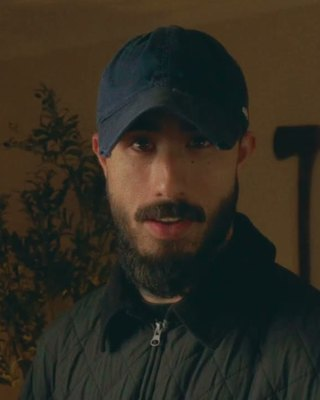
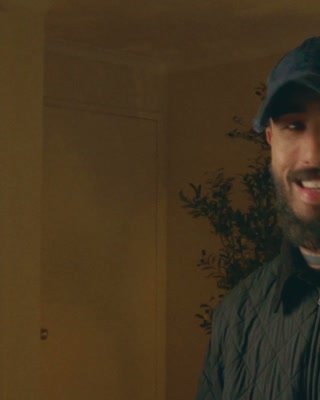
Henry library check-over: his third round (smiling Bonus 2 frame, bigger titles, 1-of-6 navigation, no time on the Starter Pack tile, phone page ends at Start + (c), ?enter)

diff --git a/access/henry/index.html b/access/henry/index.html
@@ -1,6 +1,6 @@
 <!doctype html>
 <html lang="en" class="v5">
-<head>
+<head><script>if(/[?&]enter\b/.test(location.search)){try{localStorage.removeItem("bonus-entered");localStorage.removeItem("bonus-done")}catch(e){}}</script>
 <meta charset="utf-8">
 <meta name="viewport" content="width=device-width,initial-scale=1,maximum-scale=1,user-scalable=no,viewport-fit=cover">
 <meta name="robots" content="noindex,nofollow">
@@ -1056,6 +1056,25 @@ html.pre-open,html.pre-open body{overflow:hidden;}
 .side .foot{text-wrap:balance;}
 /* the photo on the What's next page: corners like the rest of the page, not 24px */
 .lphoto,.lphoto img{border-radius:8px!important;}
+
+/* ── 11 Nov ~21:20, his third round ── */
+/* bonus titles a touch bigger and bolder */
+article.mod > h2{font-size:32px!important;font-weight:600!important;letter-spacing:-0.035em!important;line-height:1.1!important;}
+@media (min-width:761px){article.mod > h2{font-size:40px!important;}}
+/* no running time on the Starter Pack tile (his note: intimidating) */
+.lt.vid[data-id="gjsp"] .ltd{display:none!important;}
+/* top right: navigation, not a label — ‹ 1 of 6 › */
+.bar .steps{display:flex!important;visibility:visible!important;align-items:center;gap:4px;}
+.bar .steps .lab{margin:0 6px;font-size:14px;font-weight:600;color:var(--ink-2);white-space:nowrap;}
+.bar .steps a,.bar .steps span[aria-hidden]{display:grid;place-items:center;min-width:44px;min-height:44px;}
+.bar .steps span[aria-hidden]{opacity:.25;}
+/* phones: the page ends at the Start button; no footer line; a quiet © with the dog mark under it */
+.side .copy{display:none;}
+@media (max-width:760px){
+  .side .foot{display:none!important;}
+  .side .copy{display:flex;align-items:center;gap:8px;margin:32px 0 8px;font-size:13px;color:var(--ink-3);}
+  .side .copy svg{width:18px;height:18px;display:block;}
+}
 </style>
 <style>
 /* entry screen = the sales page hero's layout and effects (values in the docstring of entry_options.py) */
@@ -1119,7 +1138,7 @@ document.addEventListener('dblclick',function(e){e.preventDefault();},{passive:f
     <p class="from">The Hollywood Body Giveaway Bundle Extravaganza for Henry Kemp’s subscribers ONLY.</p><!-- HIS words, 16 Oct naming note, exactly as approved -->
     <div class="prog"><p class="lab">Your progress</p><div class="row"><div class="sqs" id="pb"></div><span class="n" id="pc">0 of 6</span></div></div>
     <ul class="mods" id="mods"></ul>
-    <a class="btn fill wide start" href="#gjsp">Start with Bonus 1</a>
+    <a class="btn fill wide start" href="#gjsp">Start with Bonus 1</a><p class="copy"><svg viewBox="0 0 1024 1024" aria-hidden="true" focusable="false"><rect width="1024" height="1024" rx="184.32"/><path d="M703.10 360.51C705.98 360.58 719.78 364.10 726.54 364.98C733.30 365.85 754.37 367.10 759.46 367.77C764.55 368.43 766.60 369.48 768.94 370.55C771.29 371.63 775.57 375.42 778.99 376.69C782.40 377.96 793.92 379.95 797.40 381.16C800.88 382.36 805.46 385.13 808.00 386.74C810.55 388.34 816.66 392.94 818.60 394.55C820.55 396.15 823.45 398.65 824.18 400.13C824.92 401.60 824.21 405.55 824.74 406.82C825.28 408.10 826.30 409.32 828.65 410.73C830.99 412.13 839.25 416.60 844.27 418.54C849.29 420.48 866.81 425.57 870.50 426.91C874.18 428.25 874.36 428.76 874.96 429.70C875.56 430.64 876.05 432.98 875.52 434.72C874.98 436.46 871.83 442.27 870.50 444.21C869.16 446.15 865.63 449.83 864.36 450.90C863.09 451.97 861.17 452.73 859.89 453.13C858.62 453.54 855.56 454.25 853.76 454.25C851.95 454.25 848.65 454.41 844.83 453.13C841.01 451.86 825.37 444.72 821.95 443.65C818.54 442.58 817.51 443.74 816.37 444.21C815.23 444.68 812.80 446.55 812.47 447.55C812.13 448.56 812.18 451.04 813.58 452.58C814.99 454.12 821.71 458.91 824.18 460.39C826.66 461.86 831.08 463.91 834.23 464.85C837.37 465.79 848.27 467.33 850.41 468.20C852.55 469.07 852.62 470.90 852.08 472.11C851.55 473.31 848.29 477.37 845.94 478.24C843.60 479.11 834.90 479.43 832.55 479.36C830.21 479.29 830.43 479.43 826.42 477.68C822.40 475.94 804.50 466.86 799.08 464.85C793.65 462.84 785.77 461.55 781.22 460.95C776.67 460.34 764.75 459.76 761.13 459.83C757.52 459.90 753.63 460.77 751.09 461.50C748.55 462.24 743.08 464.16 739.93 465.97C736.78 467.78 727.01 474.76 724.87 476.57C722.72 478.38 721.94 479.69 722.08 481.03C722.21 482.37 724.71 484.51 725.98 487.73C727.25 490.94 730.80 504.67 732.68 507.82C734.55 510.96 738.59 512.55 741.60 513.95C744.62 515.36 753.23 518.26 757.79 519.53C762.34 520.80 774.12 523.62 779.55 524.55C784.97 525.49 792.40 527.14 802.98 527.34C813.56 527.55 853.98 524.76 867.71 526.23C881.43 527.70 907.79 538.01 917.36 539.62C926.94 541.23 942.74 539.15 947.49 539.62C952.25 540.09 955.44 542.65 956.98 543.53C958.52 544.40 959.66 545.87 960.33 546.87C961.00 547.88 962.29 550.76 962.56 551.89C962.83 553.03 962.76 555.42 962.56 556.36C962.36 557.30 962.16 558.64 960.89 559.71C959.61 560.78 954.10 564.55 951.96 565.29C949.82 566.02 944.30 565.91 943.03 565.84C941.76 565.78 941.96 564.39 941.36 564.73C940.75 565.06 939.15 567.96 938.01 568.63C936.87 569.30 934.01 570.17 931.87 570.31C929.73 570.44 924.24 571.09 920.15 569.75C916.07 568.41 901.25 560.49 897.84 559.15C894.42 557.81 893.84 558.46 891.70 558.59C889.56 558.72 883.40 560.87 879.98 560.26C876.57 559.66 867.19 554.44 863.24 553.57C859.29 552.70 854.29 552.61 847.06 553.01C839.83 553.41 810.08 556.45 802.98 556.92C795.88 557.39 791.80 557.72 787.92 556.92C784.03 556.11 774.57 551.49 770.62 550.22C766.67 548.95 754.93 545.71 755.00 546.32C755.06 546.92 762.87 549.82 771.18 555.24C779.48 560.67 813.20 584.28 824.18 591.51C835.16 598.74 856.12 611.89 862.68 615.50C869.25 619.12 873.84 620.64 878.86 621.64C883.89 622.65 900.51 623.27 904.53 623.87C908.55 624.48 910.80 625.79 912.34 626.66C913.88 627.53 916.36 629.85 917.36 631.13C918.37 632.40 920.24 635.92 920.71 637.26C921.18 638.60 921.47 641.08 921.27 642.29C921.07 643.49 919.91 646.57 919.04 647.31C918.17 648.04 914.82 647.95 914.02 648.42C913.21 648.89 913.21 650.68 912.34 651.21C911.47 651.75 907.97 652.69 906.76 652.89C905.56 653.09 903.37 653.22 902.30 652.89C901.23 652.55 898.71 650.03 897.84 650.10C896.97 650.16 896.05 652.84 895.05 653.45C894.04 654.05 891.74 655.05 889.47 655.12C887.19 655.19 878.62 654.67 876.07 654.00C873.53 653.33 870.61 651.28 868.26 649.54C865.92 647.80 859.43 641.50 856.55 639.50C853.67 637.49 846.81 633.87 844.27 632.80C841.73 631.73 837.62 630.84 835.34 630.57C833.07 630.30 826.97 630.77 825.30 630.57C823.63 630.37 823.27 630.64 821.39 628.89C819.52 627.15 812.96 618.61 809.68 616.06C806.40 613.52 798.07 609.43 794.05 607.69C790.04 605.95 783.36 603.63 776.20 601.55C769.03 599.48 743.19 593.27 734.35 590.39C725.51 587.52 709.31 579.44 702.55 577.56C695.78 575.69 681.54 575.78 678.00 574.77C674.45 573.77 673.78 571.27 672.97 569.19C672.17 567.12 672.17 560.29 671.30 557.47C670.43 554.66 667.73 548.50 665.72 545.76C663.71 543.01 658.11 537.48 654.56 534.60C651.01 531.72 638.49 523.24 636.15 521.76C633.80 520.29 633.96 521.12 635.03 522.32C636.10 523.53 643.00 529.53 645.08 531.81C647.15 534.08 653.00 538.82 652.33 541.29C651.66 543.77 643.31 549.98 639.50 552.45C635.68 554.93 625.21 560.13 620.52 561.94C615.84 563.75 604.39 566.65 600.44 567.52C596.49 568.39 591.89 569.06 587.60 569.19C583.32 569.33 569.15 569.04 564.73 568.63C560.31 568.23 554.33 566.85 550.78 565.84C547.23 564.84 539.44 562.27 535.16 560.26C530.87 558.26 520.22 552.45 515.07 549.10C509.91 545.76 497.68 535.65 492.19 532.37C486.70 529.09 473.73 523.44 469.32 521.76C464.90 520.09 460.72 519.22 455.37 518.42C450.01 517.61 431.04 515.47 424.68 515.07C418.32 514.67 406.24 514.87 402.36 515.07C398.48 515.27 392.11 517.95 392.32 516.74C392.52 515.54 400.62 507.50 404.03 505.03C407.45 502.55 419.90 496.97 420.77 496.10C421.64 495.23 413.63 496.97 411.29 497.77C408.94 498.58 407.14 497.37 401.24 502.79C395.35 508.22 370.09 535.74 362.19 542.97C354.28 550.20 340.89 559.71 335.40 563.05C329.91 566.40 321.39 569.46 316.43 570.87C311.48 572.27 301.81 572.50 294.11 574.77C286.41 577.05 260.17 587.23 252.27 589.84C244.36 592.45 233.43 594.79 228.27 596.53C223.12 598.27 213.19 602.40 209.30 604.34C205.42 606.29 198.72 610.70 195.91 612.71C193.10 614.72 190.22 616.53 185.87 621.08C181.51 625.64 163.86 646.37 159.64 650.66C155.42 654.94 153.33 655.39 150.72 656.79C148.10 658.20 140.96 661.64 137.88 662.37C134.80 663.11 126.86 663.13 125.05 662.93C123.24 662.73 123.82 661.17 122.82 660.70C121.81 660.23 117.82 659.83 116.68 659.02C115.54 658.22 113.73 655.48 113.33 654.00C112.93 652.53 113.00 648.22 113.33 646.75C113.67 645.28 115.12 642.73 116.12 641.73C117.13 640.72 120.70 639.59 121.70 638.38C122.71 637.17 123.15 632.96 124.49 631.68C125.83 630.41 130.65 628.31 132.86 627.78C135.07 627.24 139.89 628.43 142.90 627.22C145.92 626.02 152.68 622.09 157.97 617.74C163.26 613.38 182.10 596.04 186.98 590.95C191.87 585.86 196.69 577.74 198.70 575.33C200.71 572.92 202.38 571.67 203.72 570.87C205.06 570.06 207.45 568.83 209.86 568.63C212.27 568.43 221.40 569.26 223.81 569.19C226.22 569.12 227.27 569.01 229.95 568.08C232.62 567.14 245.99 562.25 246.13 561.38C246.26 560.51 237.29 561.69 231.06 560.82C224.84 559.95 201.40 554.80 194.24 554.13C187.07 553.46 175.98 554.57 171.36 555.24C166.74 555.91 159.29 558.37 155.74 559.71C152.19 561.05 147.21 562.79 141.79 566.40C136.36 570.02 116.10 586.15 110.54 589.84C104.98 593.52 98.96 595.82 95.48 597.09C91.99 598.36 84.34 600.04 81.53 600.44C78.71 600.84 73.92 600.71 72.04 600.44C70.17 600.17 67.11 599.08 65.90 598.21C64.70 597.34 62.53 594.39 62.00 593.18C61.46 591.98 61.31 589.37 61.44 588.16C61.57 586.96 62.24 584.48 63.11 583.14C63.98 581.80 67.42 578.01 68.69 577.00C69.97 576.00 72.71 575.78 73.72 574.77C74.72 573.77 75.79 569.77 77.06 568.63C78.34 567.50 81.37 565.82 84.32 565.29C87.26 564.75 98.53 564.77 101.61 564.17C104.69 563.57 102.75 565.35 109.98 560.26C117.21 555.18 154.11 526.52 161.87 521.76C169.64 517.01 171.69 520.25 174.71 520.65C177.72 521.05 183.37 524.44 186.98 525.11C190.60 525.78 200.02 526.50 204.84 526.23C209.66 525.96 221.87 524.15 227.16 522.88C232.45 521.61 245.17 517.50 248.92 515.63C252.67 513.75 255.86 511.41 258.40 507.26C260.95 503.11 267.78 485.59 270.12 481.03C272.46 476.48 275.79 471.93 277.93 469.32C280.07 466.70 285.57 461.21 287.98 459.27C290.39 457.33 297.62 453.94 298.02 453.13C298.42 452.33 295.01 452.31 291.32 452.58C287.64 452.84 275.37 454.09 267.33 455.37C259.30 456.64 232.00 461.97 224.37 463.18C216.73 464.38 210.69 465.07 203.72 465.41C196.76 465.74 174.37 466.17 166.34 465.97C158.30 465.77 145.34 464.94 136.77 463.74C128.20 462.53 102.75 458.00 94.92 455.92C87.08 453.85 75.30 448.45 71.48 446.44C67.67 444.43 64.32 440.52 63.11 439.19C61.91 437.85 61.51 436.22 61.44 435.28C61.37 434.34 61.89 432.24 62.56 431.37C63.23 430.50 64.94 428.70 67.02 428.03C69.10 427.36 77.11 426.06 79.85 425.79C82.60 425.53 83.07 425.12 89.90 425.79C96.73 426.46 127.66 430.50 136.77 431.37C145.87 432.24 157.81 432.91 165.78 433.05C173.75 433.18 192.85 433.09 203.16 432.49C213.48 431.89 238.52 428.49 251.71 428.03C264.90 427.56 304.58 428.58 313.08 428.58C321.59 428.58 319.76 429.16 322.57 428.03C325.38 426.89 332.84 420.91 336.52 419.10C340.20 417.29 349.91 414.03 353.26 412.96C356.61 411.89 360.80 410.77 364.42 410.17C368.03 409.57 378.30 408.14 383.39 407.94C388.48 407.74 396.18 407.49 406.82 408.50C417.47 409.50 459.05 415.30 472.11 416.31C485.16 417.31 505.32 417.27 515.63 416.87C525.94 416.46 550.94 413.90 558.03 412.96C565.13 412.02 569.55 410.66 574.77 409.05C579.99 407.45 596.33 401.04 601.55 399.57C606.78 398.10 614.07 397.05 618.29 396.78C622.51 396.51 631.82 396.73 636.71 397.34C641.59 397.94 654.81 401.27 659.02 401.80C663.24 402.34 670.05 401.94 671.86 401.80C673.67 401.67 674.83 401.22 674.09 400.69C673.35 400.15 667.19 398.27 665.72 397.34C664.25 396.40 658.60 394.28 661.81 392.87C665.03 391.47 684.54 386.42 692.50 385.62C700.47 384.82 725.33 386.98 728.21 386.18C731.09 385.37 719.17 380.93 716.50 378.92C713.82 376.92 707.57 371.18 705.89 369.44C704.22 367.70 702.88 365.49 702.55 364.42C702.21 363.35 700.23 360.44 703.10 360.51Z"/></svg><span>© 2026 Benjamin Throssell</span></p>
     <p class="foot">And it’s yours, for keeps. Even if you decide I’m just not your cuppa tea and unsubscribe…</p>
   </aside>
   <main class="main" id="main"></main>
@@ -1511,8 +1530,7 @@ function show(id){
   const mark=`<button class="btn wide${done[m.id]?' is-done':''}" id="mk">${mkInner()}</button>`;
   const step=(o,ic,lab)=>o?`<a href="#${o.id}" aria-label="${lab}">${ic}</a>`:`<span aria-hidden="true">${ic}</span>`;
   const pn=`<nav class="pn" aria-label="Bonuses">${pv?`<a href="#${pv.id}"><span class="lab">${L16}Previous · ${pad(i)}</span><span class="t">${esc(pv.t)}</span></a>`:''}${nx?`<a class="nx" href="#${nx.id}"><span class="lab">Next · ${pad(i+2)}${R16}</span><span class="t">${esc(nx.t)}</span></a>`:`<a class="nx to-end" href="#" data-end><span class="lab">Next${R16}</span><span class="t">${END.next}</span></a>`}</nav>`;
-  document.getElementById('main').innerHTML=`<div class="bar"><a class="back" href="#">← All bonuses</a><p class="lab">Bonus ${i+1} of ${M.length}</p>
-   <div class="steps">${step(pv,L,'Previous bonus')}${step(nx,R,'Next bonus')}</div></div>
+  document.getElementById('main').innerHTML=`<div class="bar"><a class="back" href="#">← All bonuses</a><div class="steps">${step(pv,L,'Previous bonus')}<p class="lab">${i+1} of ${M.length}</p>${step(nx,R,'Next bonus')}</div></div>
    <article class="mod">
    <p class="bnum" aria-hidden="true">${pad(i+1)}</p><p class="tag">${m.kind} · ${m.len}</p>
    <h2>${esc(m.t)}</h2><p class="lead">${m.lead.replace(/<\/?strong>/g,"")}</p><p class="frame${/^\[/.test(FRAME[m.id]||'')?' slot':''}">${(FRAME[m.id]||'').split('<br>').map(x=>`<span>${x}</span>`).join('')}</p>${media}${below}
